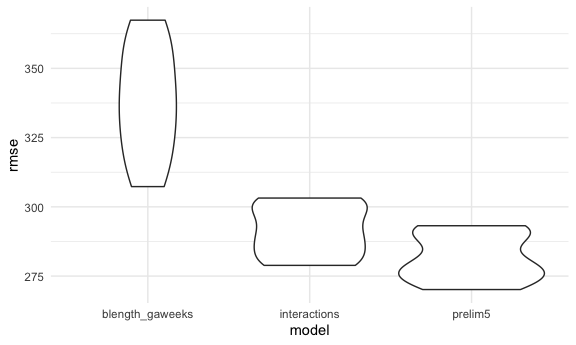
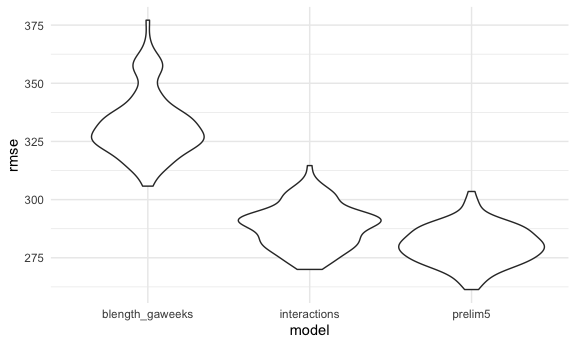
Final edits and review of interpretations.

diff --git a/p8105_HW6_isn2102.md b/p8105_HW6_isn2102.md
@@ -101,53 +101,24 @@ birthweight_df <-
   ) 
 ```
 
-Check for missing variables: none. Can try to figure out a way to do
-this in a function so it’s not as much typing, but not exactly sure how
-to do that yet, in progress.
+Check for missing variables: based on the below function to find NAs,
+there are none for any variable.
 
 ``` r
-variable_list <- names(birthweight_df)
-
-find_nas = function(df, variable) {
-  df %>% 
-    summarise(
-      na_num = sum(is.na("variable")))
-}
-
-#output_df = map(output_list, bind_rows))
-#na_summary <- 
-#  variable_list %>% 
-#  map(variable_list, find_nas(df = birthweight_df, ))
-
-na_summary <- 
+find_na <-
   birthweight_df %>% 
-  summarise(babysex_na = sum(is.na(babysex)), 
-            bhead_na = sum(is.na(bhead)),
-            blength_na = sum(is.na(blength)),
-            bwt_na = sum(is.na(bwt)),
-            delwt_na = sum(is.na(delwt)),
-            fincome_na = sum(is.na(fincome)),
-            frace_na = sum(is.na(frace)),
-            gaweeks_na = sum(is.na(gaweeks)),
-            malform_na = sum(is.na(malform)),
-            menarche_na = sum(is.na(menarche)),
-            mheigth_na = sum(is.na(mheight)),
-            momage_na = sum(is.na(momage)),
-            mrace_na = sum(is.na(mrace)),
-            parity_na = sum(is.na(parity)),
-            pnumlbw_na = sum(is.na(pnumlbw)),
-            pnumgsa_na = sum(is.na(pnumsga)),
-            ppbmi_na = sum(is.na(ppbmi)),
-            ppwt_na = sum(is.na(ppwt)),
-            smoken_na = sum(is.na(smoken)),
-            wtgain_na = sum(is.na(wtgain)),
-  )
-na_summary %>% knitr::kable(digits = 5)
+  map_df(~sum(is.na(.)))
+
+find_na
 ```
 
-| babysex\_na | bhead\_na | blength\_na | bwt\_na | delwt\_na | fincome\_na | frace\_na | gaweeks\_na | malform\_na | menarche\_na | mheigth\_na | momage\_na | mrace\_na | parity\_na | pnumlbw\_na | pnumgsa\_na | ppbmi\_na | ppwt\_na | smoken\_na | wtgain\_na |
-| ----------: | --------: | ----------: | ------: | --------: | ----------: | --------: | ----------: | ----------: | -----------: | ----------: | ---------: | --------: | ---------: | ----------: | ----------: | --------: | -------: | ---------: | ---------: |
-|           0 |         0 |           0 |       0 |         0 |           0 |         0 |           0 |           0 |            0 |           0 |          0 |         0 |          0 |           0 |           0 |         0 |        0 |          0 |          0 |
+    ## # A tibble: 1 x 20
+    ##   babysex bhead blength   bwt delwt fincome frace gaweeks malform menarche
+    ##     <int> <int>   <int> <int> <int>   <int> <int>   <int>   <int>    <int>
+    ## 1       0     0       0     0     0       0     0       0       0        0
+    ## # … with 10 more variables: mheight <int>, momage <int>, mrace <int>,
+    ## #   parity <int>, pnumlbw <int>, pnumsga <int>, ppbmi <int>, ppwt <int>,
+    ## #   smoken <int>, wtgain <int>
 
 **Model building process:**
 
@@ -321,7 +292,7 @@ broom::tidy(smoken_biv) %>% knitr::kable(digits = 5)
 | smoken      |  \-5.22887 |   1.04649 | \-4.99657 |       0 |
 
 From this exploration we can see that all variables tested had p-values
-that were very small (most show up as zero).
+that were very small (most show up as zero) so I will keep all of them.
 
 4.  Fit a preliminary model with all these predictors.
 
@@ -502,8 +473,8 @@ From this regression output we see that fincome and momage are not
 significant anymore so we will remove those. I removed smoken, delwt,
 and ppbmi variables and the other coefficients didn’t change much, and
 the R^2 is still very high (0.70 compared to 0.72 with the “full” model)
-so I will keep those variables out of model. My final model includes
-bhead, blength, gaweeks, and mrace.
+so I will keep those variables out of model. My final model
+(prelim\_model5) includes bhead, blength, gaweeks, and mrace.
 
 Plot model residuals against fitted values:
 
@@ -526,15 +497,14 @@ birthweight_df %>%
 
 <img src="p8105_HW6_isn2102_files/figure-gfm/unnamed-chunk-11-2.png" width="90%" />
 
-**Interpretation??**  
-Look to see if residuals are normally distributed using geom\_density
-(symmetric). Then look at residuals plotted against one of the
-predictors. We want to see points centered around zero and have
-generally even spread. If you have some dots that are further from zero
-in one area then you might not have a great model fit. Don’t want to see
-any residuals that are real outliers. Also you don’t really want to see
-a clear pattern because that might indicate that you don’t have a linear
-relationship.
+**Interpretation**  
+From the density plot it seems like the residuals are normally
+distributed which indicates the model fits well. I also looked at
+residuals plotted against predicted values. We see most of the residual
+points are centered around zero and have generally even spread, also
+indicating a pretty good fit. There are a few dots that appear to be
+outliers and are quite far from zero, indicating that the model may not
+fit as well as it could. There is no apparent pattern that I can see.
 
 Fit two additional models:
 
@@ -594,14 +564,14 @@ summary(model_interactions)
     ## F-statistic:  1346 on 7 and 4334 DF,  p-value: < 2.2e-16
 
 Compare the three models by using a cross-validation approach. First
-create a set of ten samples with crossv\_mc, then convert to tibbles.
+create a set of 100 samples with crossv\_mc, then convert to tibbles.
 Map each model across each sample dataframe, then calculate RMSE based
 on each fitted model and the testing portion of each sample from the
 original dataset.
 
 ``` r
 cv_bw_df <- 
-  crossv_mc(birthweight_df, 10)
+  crossv_mc(birthweight_df, 100)
 
 cv_bw_df <-  
   cv_bw_df %>% 
@@ -660,9 +630,9 @@ cv_bw_df %>%
 
 | model            | avg\_rmse |
 | :--------------- | --------: |
-| blength\_gaweeks |  337.6699 |
-| interactions     |  291.3947 |
-| prelim5          |  281.8108 |
+| blength\_gaweeks |  332.2287 |
+| interactions     |  288.6030 |
+| prelim5          |  280.4632 |
 
 Because the smallest distribution of RMSE is for the prelim5 model which
 I initially fit, and because we can see that prelim5 also has the
@@ -727,12 +697,18 @@ Plot the distribution of the estimates.
 hist_r.squared <-
 bs_weather_df %>% 
   ggplot(aes(x = r.squared)) +
-  geom_density(fill = "mediumpurple", color = "mediumpurple", alpha = 0.8)
+  geom_density(fill = "mediumpurple", color = "mediumpurple", alpha = 0.8) +
+  labs(
+    title = "Density plot of r squared values"
+  )
 
 hist_log_betas <-
   bs_weather_df %>% 
   ggplot(aes(x = log_betas)) +
-  geom_density(fill = "turquoise3",color = "turquoise3", alpha = 0.8)
+  geom_density(fill = "turquoise3",color = "turquoise3", alpha = 0.8) +
+  labs(
+    title = "Density plot of log(beta0*beta1) values"
+  )
 
 hist_r.squared + hist_log_betas
 ```
@@ -764,8 +740,8 @@ bs_weather_df %>%
 
 | Estimate   | ci\_lower | ci\_upper |
 | :--------- | --------: | --------: |
-| log\_betas |   1.96521 |   2.05885 |
-| r.squared  |   0.89374 |   0.92724 |
+| log\_betas |   1.96694 |   2.05853 |
+| r.squared  |   0.89370 |   0.92748 |
 
 The 95% confidence interval for r^2 is (1.965, 2.059) and the 95%
 confidence interval for log(beta0\*beta1) is (0.893, 0.927).
